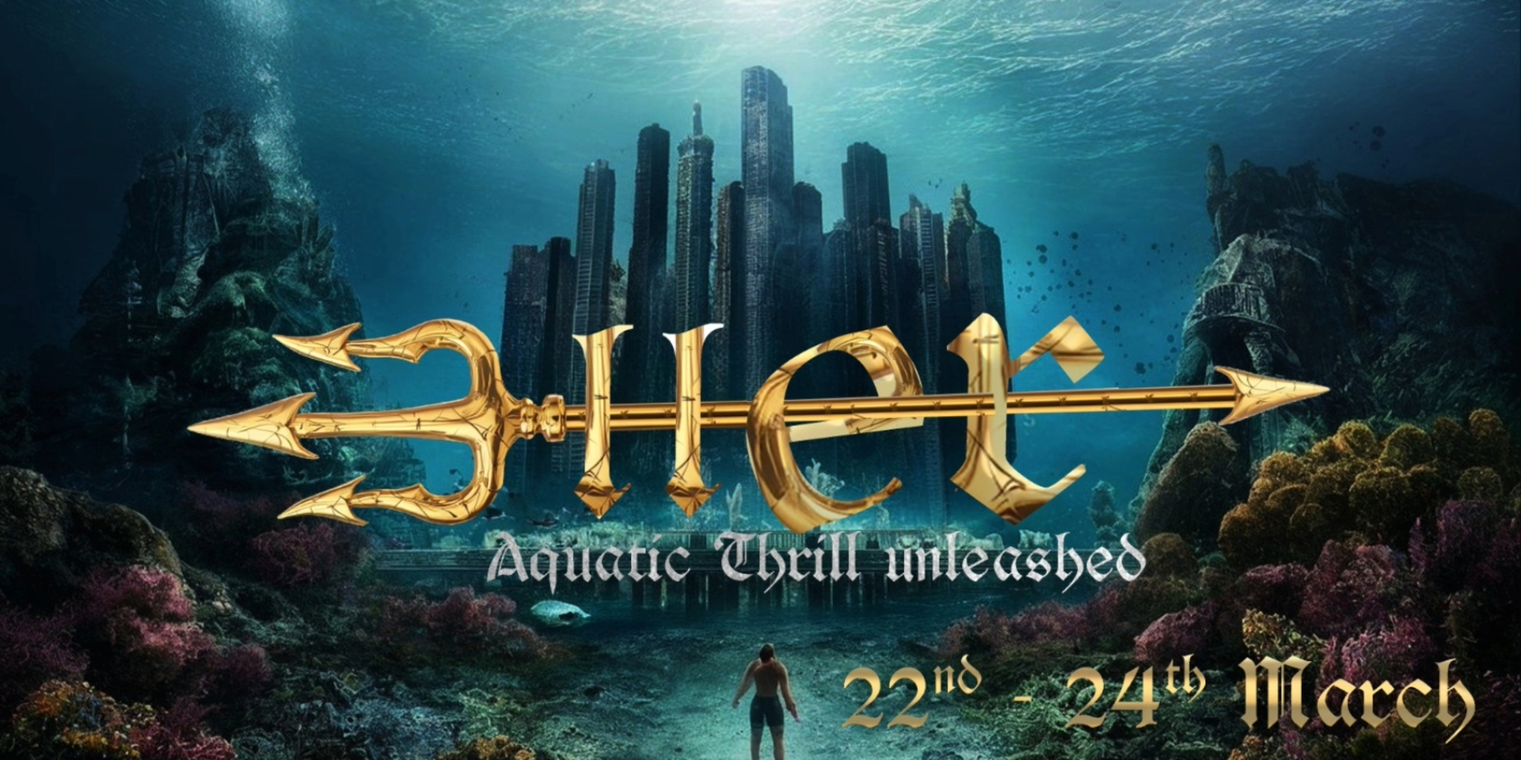
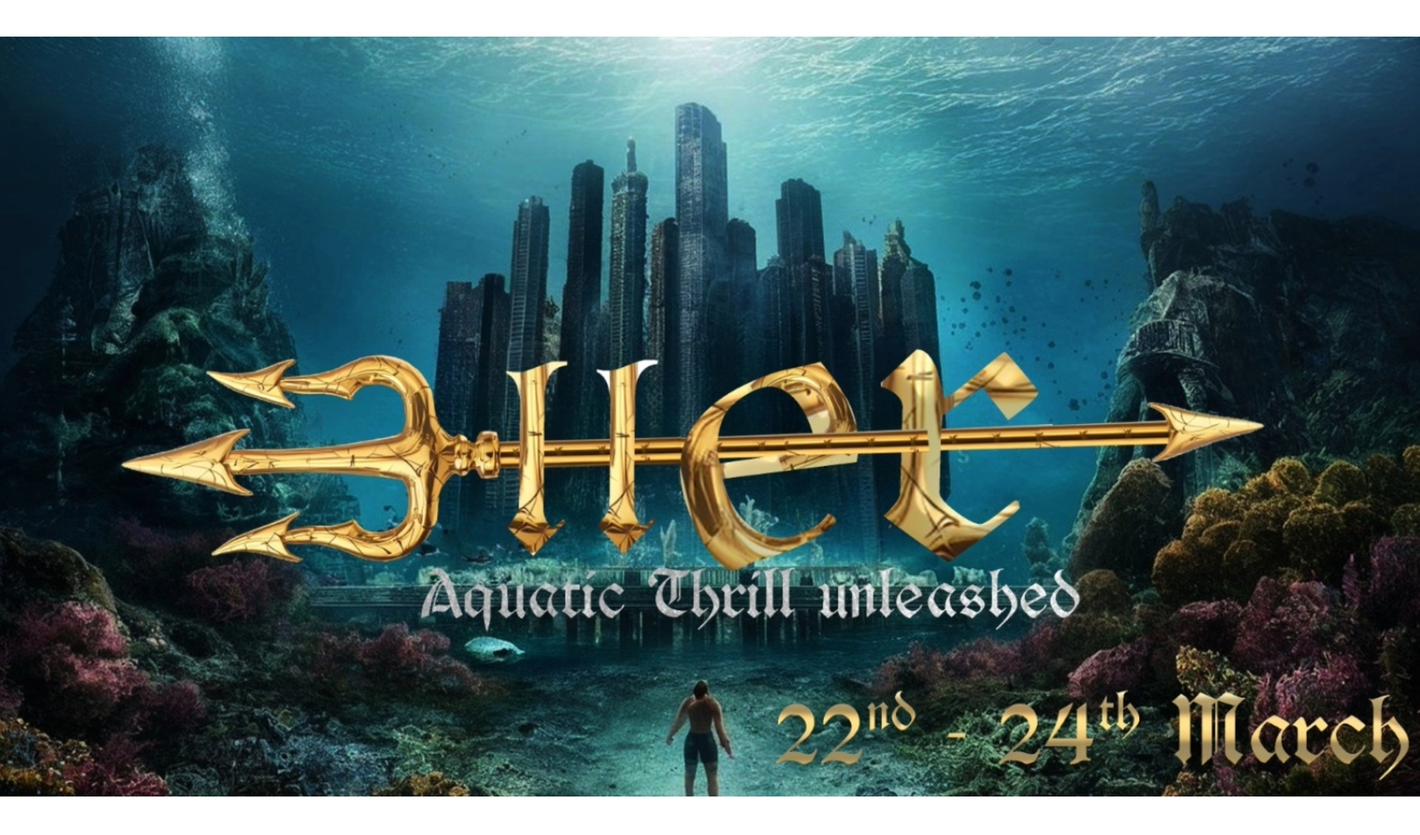
3ller

diff --git a/index.html b/index.html
@@ -14,7 +14,7 @@
       <div class="splide__track">
     <ul class="splide__list">
       <li class="splide__slide">
-        <img src="./img/3ller.jpg" width="100%" height="100%">
+        <img src="./img/3ller.jpg" width="50%" height="55%">
       </li>
       <li class="splide__slide">
         <img src="./img/day0.jpeg" width="55%" height="55%">
